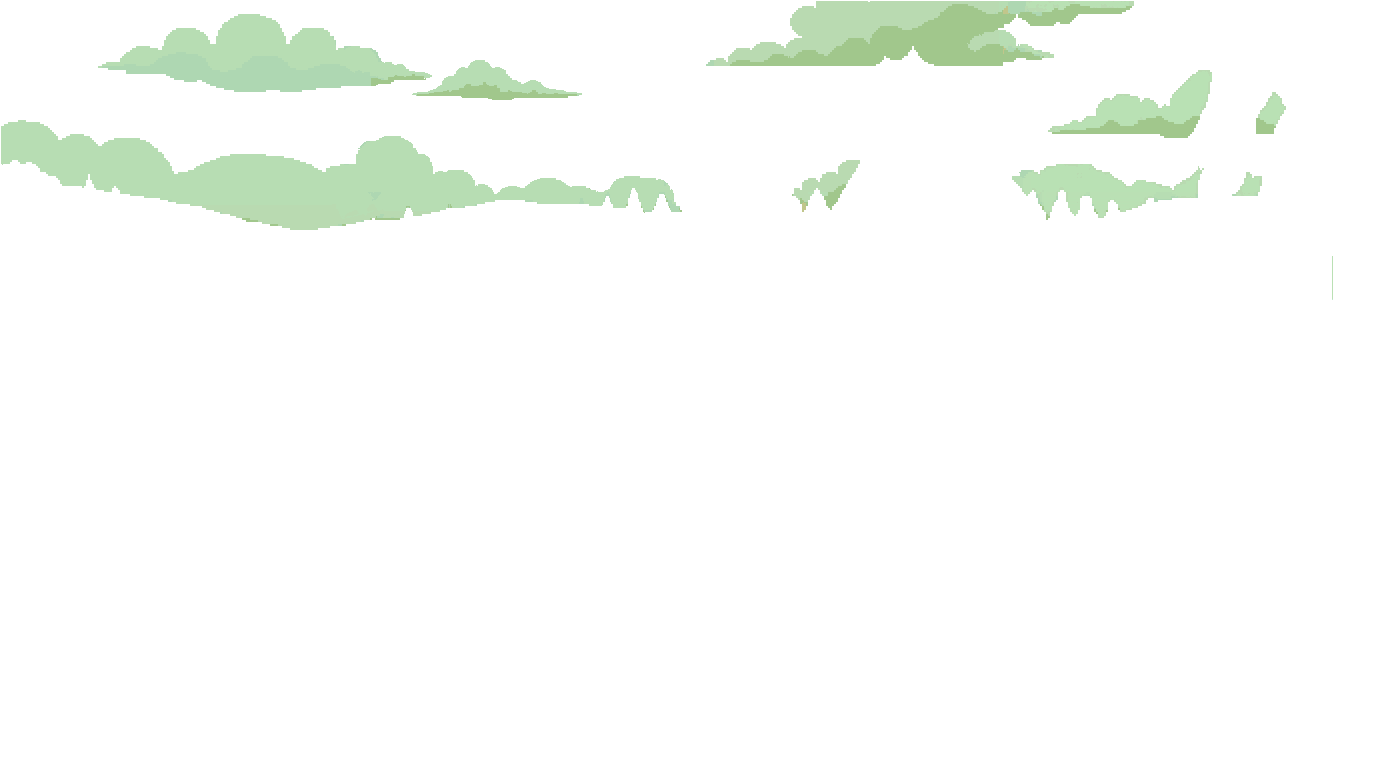
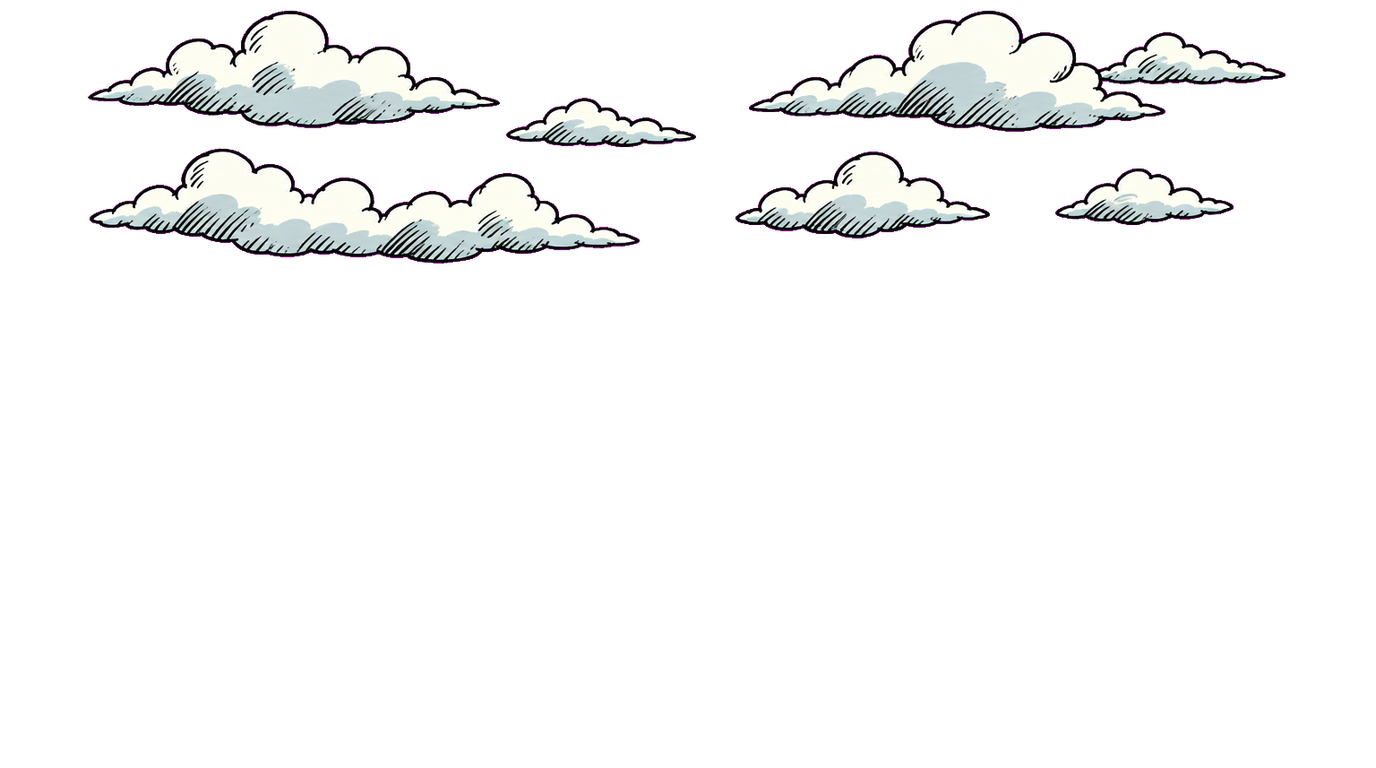
Main menu: drawn clouds
Claude-Session: https://claude.ai/code/session_01GrbNTwVienMcpmsk1Pgq12

diff --git a/art_source/drawn_menu/menu_cut.py b/art_source/drawn_menu/menu_cut.py
@@ -1,5 +1,5 @@
 """Cut drawn menu pictures off their key colour and size them like the old menu layers.
-usage: python3 menu_cut.py land|sign|ribbons_tr|ribbons_bl|board in.png out.png"""
+usage: python3 menu_cut.py land|sign|ribbons_tr|ribbons_bl|board|clouds in.png out.png"""
 import sys
 import numpy as np
 from PIL import Image
@@ -34,6 +34,12 @@ elif kind == 'board':
     # fit into the old pixel board's box on its 384x384 picture
     out = Image.new('RGBA', (384, 384))
     out.alpha_composite(fit_box(key(im, MAG), (66, 27, 318, 352)), (66, 27))
+    out.save(dst)
+elif kind == 'clouds':
+    # a 1536x512 strip: scale to the layer's width, top of a 1376x768 layer
+    k = key(im, MAG).resize((1376, 459), Image.LANCZOS)
+    out = Image.new('RGBA', (1376, 768))
+    out.alpha_composite(k)
     out.save(dst)
 elif kind == 'land':
     key(im, (255, 0, 255)).resize((1376, 768), Image.LANCZOS).save(dst)

diff --git a/guides/DESIGNER_MANUAL.md b/guides/DESIGNER_MANUAL.md
@@ -7114,9 +7114,9 @@ helper adds a node for you, say so in a comment above it, in capitals.
 
 **Drawn title screen (18 Oct 2026)** (Anthony: "redo the main Menu so that it
 isn't pixel art"). The village, the two ribbon bunches, the notice board and
-the hanging sign are now drawn in the comic style, in the same places and
+the hanging sign, and the drifting clouds (r75), are now drawn in the comic style, in the same places and
 sizes as the pixel pictures, so every Motion still works. Still pixel: the
-sky, the clouds, the bird and the button plank.
+sky, the bird and the button plank.
 - Made with Sunburst from the pixel pictures (art_tool/rounds/r73, r74), on a
   flat magenta or green backdrop, then cut out and fitted to the old places
   with `art_source/drawn_menu/menu_cut.py` (land, sign, ribbons_tr,
